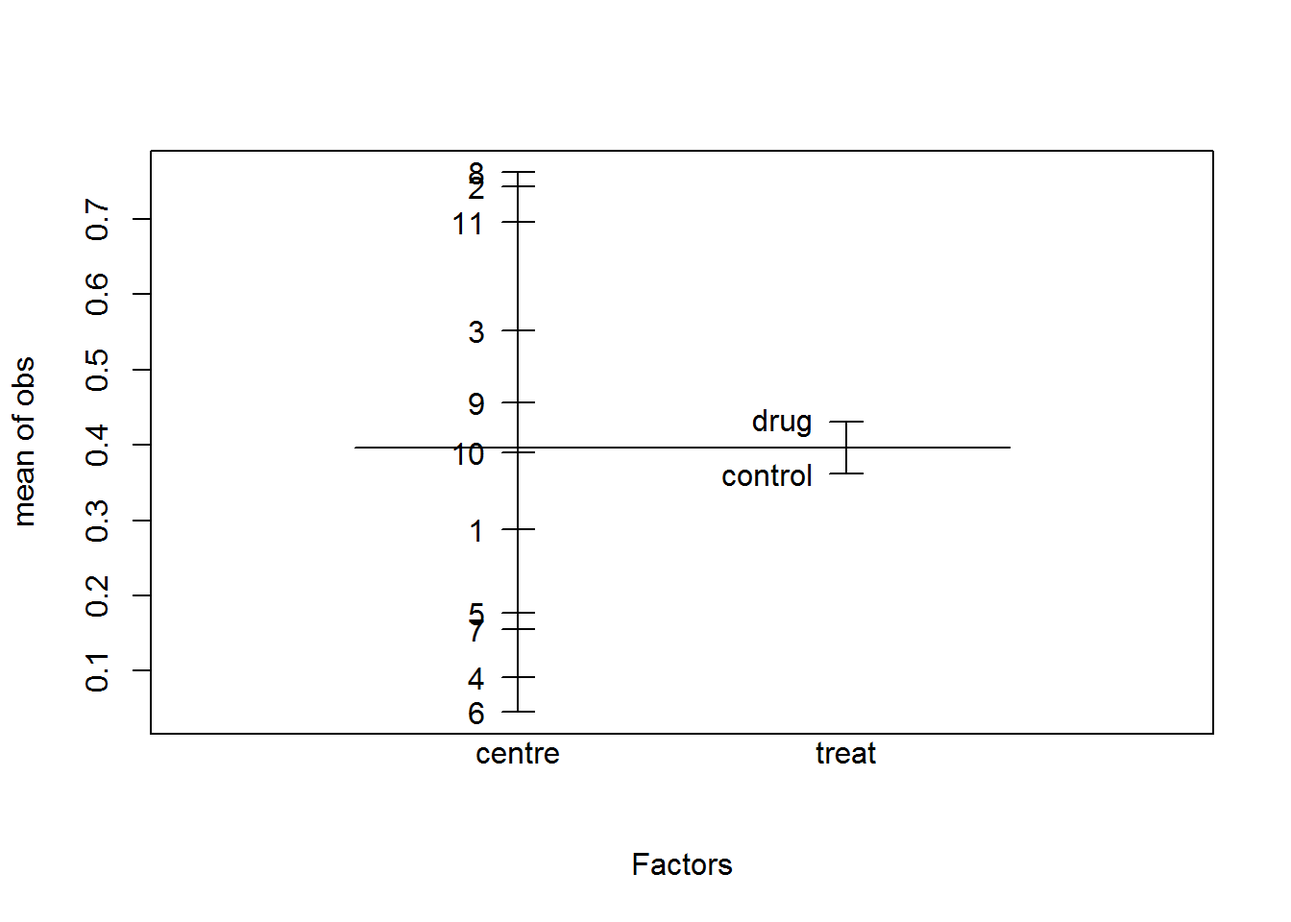
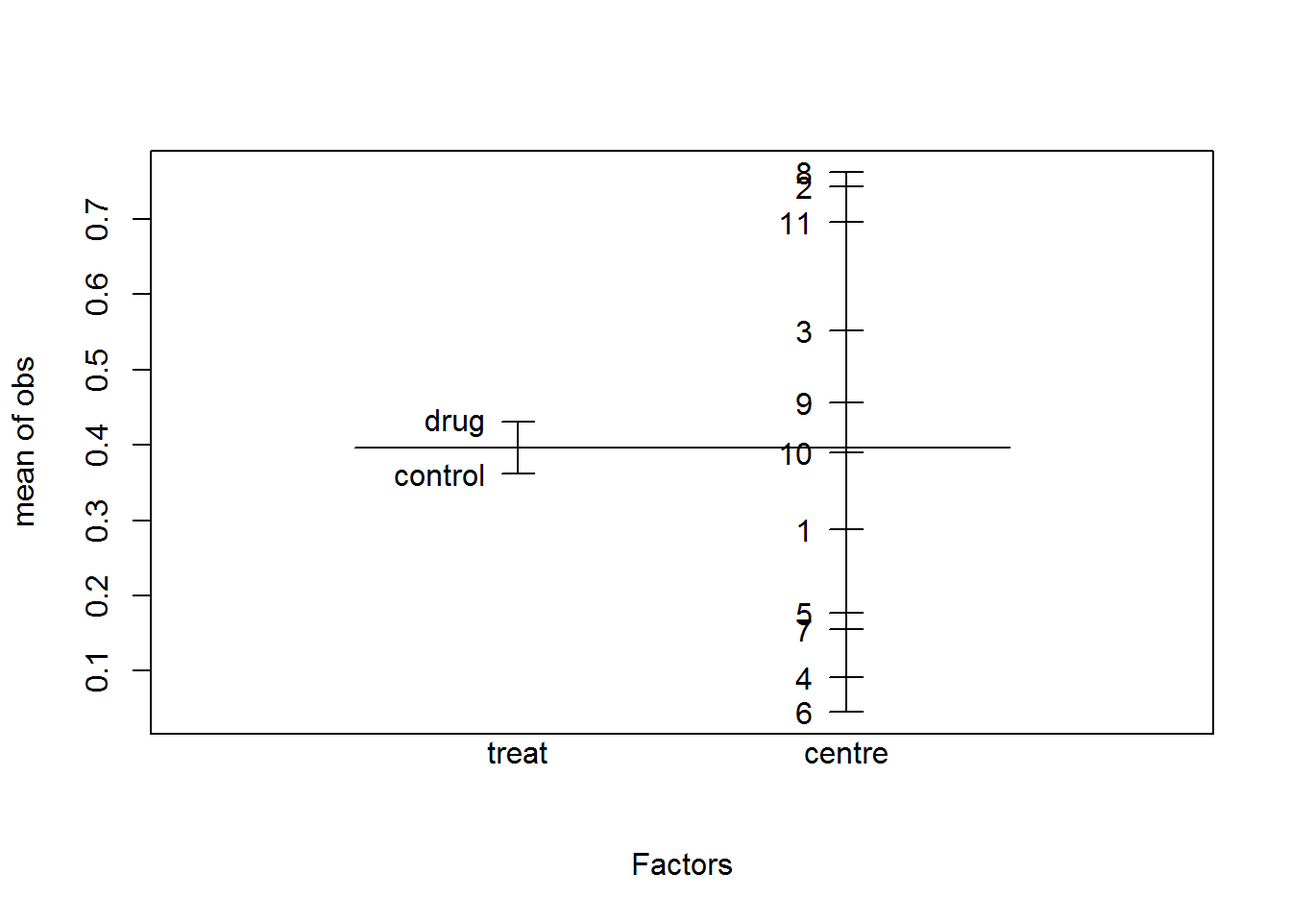
Add exercises Chapter2

diff --git a/docs/Chapter2_Exercises.html b/docs/Chapter2_Exercises.html
@@ -126,6 +126,10 @@ pre > code.sourceCode > span > a:first-child::before { text-decoration: underlin
     <a class="nav-link" href="./Chapter1_Exercises.html" rel="" target="">
  <span class="menu-text">Chapter 1 - LMM</span></a>
   </li>  
+  <li class="nav-item">
+    <a class="nav-link active" href="./Chapter2_Exercises.html" rel="" target="" aria-current="page">
+ <span class="menu-text">Chapter 2 - GLMM</span></a>
+  </li>  
 </ul>
             <div class="quarto-navbar-tools ms-auto">
 </div>
@@ -149,12 +153,11 @@ pre > code.sourceCode > span > a:first-child::before { text-decoration: underlin
   <li><a href="#write-the-mixed-logistic-regression-model-equation." id="toc-write-the-mixed-logistic-regression-model-equation." class="nav-link" data-scroll-target="#write-the-mixed-logistic-regression-model-equation.">3. Write the mixed logistic regression model equation.</a></li>
   <li><a href="#choose-the-correct-structure-for-the-random-effects" id="toc-choose-the-correct-structure-for-the-random-effects" class="nav-link" data-scroll-target="#choose-the-correct-structure-for-the-random-effects">4. Choose the correct structure for the random effects</a></li>
   <li><a href="#check-if-the-treatment-effect-is-significant." id="toc-check-if-the-treatment-effect-is-significant." class="nav-link" data-scroll-target="#check-if-the-treatment-effect-is-significant.">5. Check if the treatment effect is significant.</a></li>
-  <li><a href="#using-the-model-with-fixed-and-random-effects-interpret-the-odds-ratio-ebeta_1-and-compute-a-95-confidence-interval.-which-is-the-median-probability-of-a-positive-response-on-the-control-group" id="toc-using-the-model-with-fixed-and-random-effects-interpret-the-odds-ratio-ebeta_1-and-compute-a-95-confidence-interval.-which-is-the-median-probability-of-a-positive-response-on-the-control-group" class="nav-link" data-scroll-target="#using-the-model-with-fixed-and-random-effects-interpret-the-odds-ratio-ebeta_1-and-compute-a-95-confidence-interval.-which-is-the-median-probability-of-a-positive-response-on-the-control-group">6. Using the model with fixed and random effects, interpret the odds ratio <span class="math inline">\(e^{\beta_1}\)</span> and compute a 95% confidence interval. Which is the median probability of a positive response on the control group?</a></li>
+  <li><a href="#using-the-model-with-fixed-and-random-effects-which-is-the-probability-of-a-positive-response-on-the-active-drug-group-interpret-the-odds-ratio-ebeta_1-and-compute-a-95-confidence-interval." id="toc-using-the-model-with-fixed-and-random-effects-which-is-the-probability-of-a-positive-response-on-the-active-drug-group-interpret-the-odds-ratio-ebeta_1-and-compute-a-95-confidence-interval." class="nav-link" data-scroll-target="#using-the-model-with-fixed-and-random-effects-which-is-the-probability-of-a-positive-response-on-the-active-drug-group-interpret-the-odds-ratio-ebeta_1-and-compute-a-95-confidence-interval.">6. Using the model with fixed and random effects, which is the probability of a positive response on the active drug group? Interpret the odds ratio <span class="math inline">\(e^{\beta_1}\)</span> and compute a 95% confidence interval.</a></li>
   <li><a href="#using-the-best-model-verify-whether-the-model-assumptions-on-the-random-effects-are-satisfied." id="toc-using-the-best-model-verify-whether-the-model-assumptions-on-the-random-effects-are-satisfied." class="nav-link" data-scroll-target="#using-the-best-model-verify-whether-the-model-assumptions-on-the-random-effects-are-satisfied.">7. Using the best model, verify whether the model assumptions on the random effects are satisfied.</a></li>
   <li><a href="#which-is-the-estimated-variance-and-95-confidence-interval-of-the-within-centre-random-effect-compute-and-interpret-the-intra-class-correlation-coefficient." id="toc-which-is-the-estimated-variance-and-95-confidence-interval-of-the-within-centre-random-effect-compute-and-interpret-the-intra-class-correlation-coefficient." class="nav-link" data-scroll-target="#which-is-the-estimated-variance-and-95-confidence-interval-of-the-within-centre-random-effect-compute-and-interpret-the-intra-class-correlation-coefficient.">8. Which is the estimated variance and 95% confidence interval of the within-centre random effect? Compute and interpret the intra-class correlation coefficient.</a></li>
   <li><a href="#compute-the-predicted-probabilties-of-a-positive-response-for-each-value-of-the-dataset.-include-those-estimated-probabilities-in-the-descriptive-plot-of-section-1." id="toc-compute-the-predicted-probabilties-of-a-positive-response-for-each-value-of-the-dataset.-include-those-estimated-probabilities-in-the-descriptive-plot-of-section-1." class="nav-link" data-scroll-target="#compute-the-predicted-probabilties-of-a-positive-response-for-each-value-of-the-dataset.-include-those-estimated-probabilities-in-the-descriptive-plot-of-section-1.">9. Compute the predicted probabilties of a positive response for each value of the dataset. Include those estimated probabilities in the descriptive plot of section 1).</a></li>
   </ul></li>
-  <li><a href="#exercise-2" id="toc-exercise-2" class="nav-link" data-scroll-target="#exercise-2">Exercise 2</a></li>
   </ul>
 </nav>
     </div>
@@ -192,7 +195,7 @@ pre > code.sourceCode > span > a:first-child::before { text-decoration: underlin
 
 <section id="exercise-1" class="level1">
 <h1>Exercise 1</h1>
-<p>Data from a clinical trial, involving 2 treatments (control and active drug), conducted at 8 randomly selected centres are discussed by <a href="https://www.jstor.org/stable/2530970">Beitler and Landis (1985)</a>. For the <span class="math inline">\(i\)</span>-th center and <span class="math inline">\(j\)</span>-th treatment, the proportion of <span class="math inline">\(n_{ij}\)</span> patients having a positive response (<span class="math inline">\(y_{ij}\)</span>) is recorded below (<em>material extracted from Gallagher, 2023</em>):</p>
+<p>Data from a clinical trial, involving 2 treatments (control and active drug), conducted at 11 randomly selected centres are discussed by <a href="https://www.jstor.org/stable/2530970">Beitler and Landis (1985)</a>. For the <span class="math inline">\(i\)</span>-th center and <span class="math inline">\(j\)</span>-th treatment, the proportion of <span class="math inline">\(n_{ij}\)</span> patients having a positive response (<span class="math inline">\(y_{ij}\)</span>) is recorded below (<em>material extracted from Gallagher, 2023</em>):</p>
 <table class="table">
 <thead>
 <tr class="header">
@@ -290,10 +293,10 @@ pre > code.sourceCode > span > a:first-child::before { text-decoration: underlin
 <h3 class="anchored" data-anchor-id="which-variable-should-be-included-as-a-fixed-effect-and-which-as-a-random-effect-make-a-design-plot-to-visually-compare-the-magnitude-of-the-effects-of-the-centre-and-treat-factors.">2. Which variable should be included as a fixed effect, and which as a random effect? Make a <em>design plot</em> to visually compare the magnitude of the effects of the <code>centre</code> and <code>treat</code> factors.</h3>
 <ul>
 <li><p>We want to compare these particular treatments (<em>experimental factor</em>), so we use fixed effects for the <code>treat</code> factor.</p></li>
-<li><p>The eight centres represents a random sample from the population about which we wish to make inferences (<em>random factor</em>), so we use random effects to model the <code>center</code> factor.</p></li>
+<li><p>The eleven centres represents a random sample from the population about which we wish to make inferences (<em>random factor</em>), so we use random effects to model the <code>center</code> factor.</p></li>
 </ul>
 <div class="cell">
-<div class="sourceCode cell-code" id="cb6"><pre class="sourceCode r code-with-copy"><code class="sourceCode r"><span id="cb6-1"><a href="#cb6-1" aria-hidden="true" tabindex="-1"></a><span class="fu">plot.design</span>(obs <span class="sc">~</span> centre<span class="sc">*</span>treat, <span class="at">data=</span>multicentre)</span></code><button title="Copy to Clipboard" class="code-copy-button"><i class="bi"></i></button></pre></div>
+<div class="sourceCode cell-code" id="cb6"><pre class="sourceCode r code-with-copy"><code class="sourceCode r"><span id="cb6-1"><a href="#cb6-1" aria-hidden="true" tabindex="-1"></a><span class="fu">plot.design</span>(obs <span class="sc">~</span> treat<span class="sc">*</span>centre, <span class="at">data=</span>multicentre)</span></code><button title="Copy to Clipboard" class="code-copy-button"><i class="bi"></i></button></pre></div>
 <div class="cell-output-display">
 <div class="quarto-figure quarto-figure-center">
 <figure class="figure">
@@ -305,137 +308,44 @@ pre > code.sourceCode > span > a:first-child::before { text-decoration: underlin
 </div>
 <ul>
 <li><p>We see that the variability associated with the treatment is much lower than the variability associated with the centres.</p></li>
-<li><p>We also see that the average probability of a positive response is lower in the <em>active drug</em> treatment.</p></li>
+<li><p>We also see that the average probability of a positive response is higher in the <em>active drug</em> treatment.</p></li>
 </ul>
 </section>
 <section id="write-the-mixed-logistic-regression-model-equation." class="level3">
 <h3 class="anchored" data-anchor-id="write-the-mixed-logistic-regression-model-equation.">3. Write the mixed logistic regression model equation.</h3>
-<p><span class="math display">\[y_{ij} | u_i  \sim Bin(n_{ij},\pi_{ij}), \quad i=1,\ldots,10 \quad \mbox{and} \quad j=1,2\]</span> <span class="math display">\[\mbox{logit}(\pi_{ij}) = \beta_0 + \beta_1*x_{j} + u_i, \quad u_i \sim N(0,\sigma_u^2)\]</span> where</p>
+<p><span class="math display">\[y_{ij} | u_i  \sim Bin(n_{ij},\pi_{ij}), \quad i=1,\ldots,10 \quad \mbox{and} \quad j=1,2\]</span> <span class="math display">\[\mbox{logit}(\pi_{ij}) = \beta_0 + \beta_1*x_{ij} + u_i, \quad u_i \sim N(0,\sigma_u^2)\]</span> where</p>
 <ul>
 <li><span class="math inline">\(\pi_{ij}\)</span> is the probability of a favourable outcome in a patient on the <span class="math inline">\(i\)</span>-th centre and <span class="math inline">\(j\)</span>-th treatment</li>
-<li><span class="math inline">\(x_j\)</span> is an indicator variable for treatment (0=control, 1=active drug)</li>
+<li><span class="math inline">\(x_{ij}\)</span> is an indicator variable for treatment (0=control, 1=active drug)</li>
 <li><span class="math inline">\(u_i\)</span> is a random variable associated with the <span class="math inline">\(i\)</span>-th centre</li>
 </ul>
 </section>
 <section id="choose-the-correct-structure-for-the-random-effects" class="level3">
 <h3 class="anchored" data-anchor-id="choose-the-correct-structure-for-the-random-effects">4. Choose the correct structure for the random effects</h3>
-<div class="cell">
-<div class="sourceCode cell-code" id="cb7"><pre class="sourceCode r code-with-copy"><code class="sourceCode r"><span id="cb7-1"><a href="#cb7-1" aria-hidden="true" tabindex="-1"></a><span class="do">## Fit the models ##</span></span>
-<span id="cb7-2"><a href="#cb7-2" aria-hidden="true" tabindex="-1"></a><span class="fu">library</span>(lme4)</span>
-<span id="cb7-3"><a href="#cb7-3" aria-hidden="true" tabindex="-1"></a></span>
-<span id="cb7-4"><a href="#cb7-4" aria-hidden="true" tabindex="-1"></a>M0 <span class="ot">&lt;-</span> <span class="fu">glm</span>(obs <span class="sc">~</span> <span class="dv">1</span> <span class="sc">+</span> treat, <span class="at">family=</span><span class="st">"binomial"</span>, <span class="at">weights=</span>n, <span class="at">data=</span>multicentre)</span>
-<span id="cb7-5"><a href="#cb7-5" aria-hidden="true" tabindex="-1"></a>M1 <span class="ot">&lt;-</span> <span class="fu">glmer</span>(obs <span class="sc">~</span> <span class="dv">1</span> <span class="sc">+</span> treat <span class="sc">+</span> (<span class="dv">1</span><span class="sc">|</span>centre), <span class="at">family=</span><span class="st">"binomial"</span>, <span class="at">weights=</span>n, <span class="at">data=</span>multicentre)</span>
-<span id="cb7-6"><a href="#cb7-6" aria-hidden="true" tabindex="-1"></a></span>
-<span id="cb7-7"><a href="#cb7-7" aria-hidden="true" tabindex="-1"></a><span class="do">## LRT for the variance component sigma2_u ##</span></span>
-<span id="cb7-8"><a href="#cb7-8" aria-hidden="true" tabindex="-1"></a>LRT <span class="ot">&lt;-</span> <span class="sc">-</span><span class="dv">2</span><span class="sc">*</span>(<span class="fu">logLik</span>(M0)<span class="sc">-</span><span class="fu">logLik</span>(M1))</span>
-<span id="cb7-9"><a href="#cb7-9" aria-hidden="true" tabindex="-1"></a><span class="fu">mean</span>(<span class="fu">pchisq</span>(LRT,<span class="at">df=</span><span class="fu">c</span>(<span class="dv">0</span>,<span class="dv">1</span>),<span class="at">lower.tail=</span>F))</span></code><button title="Copy to Clipboard" class="code-copy-button"><i class="bi"></i></button></pre></div>
-<div class="cell-output cell-output-stdout">
-<pre><code>[1] 3.910022e-15</code></pre>
-</div>
-<div class="sourceCode cell-code" id="cb9"><pre class="sourceCode r code-with-copy"><code class="sourceCode r"><span id="cb9-1"><a href="#cb9-1" aria-hidden="true" tabindex="-1"></a><span class="do">## We can also use the AIC/BIC to compare the models ##</span></span>
-<span id="cb9-2"><a href="#cb9-2" aria-hidden="true" tabindex="-1"></a>Models <span class="ot">&lt;-</span> <span class="fu">list</span>(<span class="at">multicentre.glm=</span>M0, <span class="at">multicentre.glmer=</span>M1)</span>
-<span id="cb9-3"><a href="#cb9-3" aria-hidden="true" tabindex="-1"></a><span class="fu">cbind</span>(<span class="at">AIC=</span><span class="fu">lapply</span>(Models, AIC), <span class="at">BIC=</span><span class="fu">lapply</span>(Models, BIC))</span></code><button title="Copy to Clipboard" class="code-copy-button"><i class="bi"></i></button></pre></div>
-<div class="cell-output cell-output-stdout">
-<pre><code>                  AIC      BIC     
-multicentre.glm   196.8286 199.0107
-multicentre.glmer 138.4485 141.7216</code></pre>
-</div>
-</div>
 </section>
 <section id="check-if-the-treatment-effect-is-significant." class="level3">
 <h3 class="anchored" data-anchor-id="check-if-the-treatment-effect-is-significant.">5. Check if the treatment effect is significant.</h3>
 <p>We compare nested models (with and without <code>treat</code> factor) using the LRT with the <code>anova()</code> function</p>
-<div class="cell">
-<div class="sourceCode cell-code" id="cb11"><pre class="sourceCode r code-with-copy"><code class="sourceCode r"><span id="cb11-1"><a href="#cb11-1" aria-hidden="true" tabindex="-1"></a>M1a <span class="ot">&lt;-</span> <span class="fu">glmer</span>(obs <span class="sc">~</span> <span class="dv">1</span> <span class="sc">+</span> (<span class="dv">1</span><span class="sc">|</span>centre), <span class="at">family=</span><span class="st">"binomial"</span>, <span class="at">weights=</span>n, <span class="at">data=</span>multicentre)</span>
-<span id="cb11-2"><a href="#cb11-2" aria-hidden="true" tabindex="-1"></a>M1b <span class="ot">&lt;-</span> <span class="fu">glmer</span>(obs <span class="sc">~</span> <span class="dv">1</span> <span class="sc">+</span> treat <span class="sc">+</span> (<span class="dv">1</span><span class="sc">|</span>centre), <span class="at">family=</span><span class="st">"binomial"</span>, <span class="at">weights=</span>n, <span class="at">data=</span>multicentre)</span>
-<span id="cb11-3"><a href="#cb11-3" aria-hidden="true" tabindex="-1"></a><span class="fu">anova</span>(M1a,M1b)</span></code><button title="Copy to Clipboard" class="code-copy-button"><i class="bi"></i></button></pre></div>
-<div class="cell-output cell-output-stdout">
-<pre><code>Data: multicentre
-Models:
-M1a: obs ~ 1 + (1 | centre)
-M1b: obs ~ 1 + treat + (1 | centre)
-    npar    AIC    BIC  logLik deviance  Chisq Df Pr(&gt;Chisq)
-M1a    2 136.63 138.82 -66.317   132.63                     
-M1b    3 138.45 141.72 -66.224   132.45 0.1862  1     0.6661</code></pre>
-</div>
-</div>
-<p><strong>We conclude that the treatment effect is not statistically significant.</strong></p>
+<!-- **We conclude that the treatment effect is not statistically significant.** -->
 </section>
-<section id="using-the-model-with-fixed-and-random-effects-interpret-the-odds-ratio-ebeta_1-and-compute-a-95-confidence-interval.-which-is-the-median-probability-of-a-positive-response-on-the-control-group" class="level3">
-<h3 class="anchored" data-anchor-id="using-the-model-with-fixed-and-random-effects-interpret-the-odds-ratio-ebeta_1-and-compute-a-95-confidence-interval.-which-is-the-median-probability-of-a-positive-response-on-the-control-group">6. Using the model with fixed and random effects, interpret the odds ratio <span class="math inline">\(e^{\beta_1}\)</span> and compute a 95% confidence interval. Which is the median probability of a positive response on the control group?</h3>
-<div class="cell">
-<div class="sourceCode cell-code" id="cb13"><pre class="sourceCode r code-with-copy"><code class="sourceCode r"><span id="cb13-1"><a href="#cb13-1" aria-hidden="true" tabindex="-1"></a><span class="fu">library</span>(emmeans)</span>
-<span id="cb13-2"><a href="#cb13-2" aria-hidden="true" tabindex="-1"></a><span class="fu">emmeans</span>(M1b, revpairwise<span class="sc">~</span>treat, <span class="at">type=</span><span class="st">"response"</span>, <span class="at">inf=</span><span class="cn">TRUE</span>)</span></code><button title="Copy to Clipboard" class="code-copy-button"><i class="bi"></i></button></pre></div>
-<div class="cell-output cell-output-stdout">
-<pre><code>$emmeans
- treat    prob     SE  df asymp.LCL asymp.UCL null z.ratio p.value
- control 0.359 0.0892 Inf     0.208     0.545  0.5  -1.497  0.1345
- drug    0.376 0.0911 Inf     0.220     0.564  0.5  -1.301  0.1932
-
-Confidence level used: 0.95 
-Intervals are back-transformed from the logit scale 
-Tests are performed on the logit scale 
-
-$contrasts
- contrast       odds.ratio    SE  df asymp.LCL asymp.UCL null z.ratio p.value
- drug / control       1.08 0.186 Inf     0.768      1.51    1   0.433  0.6651
-
-Confidence level used: 0.95 
-Intervals are back-transformed from the log odds ratio scale 
-Tests are performed on the log odds ratio scale </code></pre>
-</div>
-</div>
-<ul>
-<li><p>The estimated odds of a patient showing a positive response on the active drug group relative to the control group is 1.08 with a 95% confidence interval of <span class="math inline">\([0.77, 1.51]\)</span>.</p></li>
-<li><p>The median (for <span class="math inline">\(u_i=0\)</span>) probability of a positive response over a population of centres under the control group is <span class="math inline">\(\hat{\pi}_i=0.376\)</span> with a 95% confidence interval of <span class="math inline">\([0.220, 0.564]\)</span>.</p></li>
-</ul>
+<section id="using-the-model-with-fixed-and-random-effects-which-is-the-probability-of-a-positive-response-on-the-active-drug-group-interpret-the-odds-ratio-ebeta_1-and-compute-a-95-confidence-interval." class="level3">
+<h3 class="anchored" data-anchor-id="using-the-model-with-fixed-and-random-effects-which-is-the-probability-of-a-positive-response-on-the-active-drug-group-interpret-the-odds-ratio-ebeta_1-and-compute-a-95-confidence-interval.">6. Using the model with fixed and random effects, which is the probability of a positive response on the active drug group? Interpret the odds ratio <span class="math inline">\(e^{\beta_1}\)</span> and compute a 95% confidence interval.</h3>
+<!-- -  For $u_i=0$, the probability of a positive response over a population of centres under the active drug group ($x_{ij}=1$) is $\hat{\pi}_{ij}=0.376$ with a 95% confidence interval of $[0.220, 0.564]$. -->
+<!-- -   The estimated odds of a patient showing a positive response on the active drug group relative to the control group is 1.08 with a 95% confidence interval of $[0.77, 1.51]$. -->
 </section>
 <section id="using-the-best-model-verify-whether-the-model-assumptions-on-the-random-effects-are-satisfied." class="level3">
 <h3 class="anchored" data-anchor-id="using-the-best-model-verify-whether-the-model-assumptions-on-the-random-effects-are-satisfied.">7. Using the best model, verify whether the model assumptions on the random effects are satisfied.</h3>
-<div class="cell">
-<div class="sourceCode cell-code" id="cb15"><pre class="sourceCode r code-with-copy"><code class="sourceCode r"><span id="cb15-1"><a href="#cb15-1" aria-hidden="true" tabindex="-1"></a>Model <span class="ot">&lt;-</span> M1a</span>
-<span id="cb15-2"><a href="#cb15-2" aria-hidden="true" tabindex="-1"></a></span>
-<span id="cb15-3"><a href="#cb15-3" aria-hidden="true" tabindex="-1"></a>rand <span class="ot">&lt;-</span> <span class="fu">unlist</span>(<span class="fu">ranef</span>(Model)<span class="sc">$</span>centre)</span>
-<span id="cb15-4"><a href="#cb15-4" aria-hidden="true" tabindex="-1"></a><span class="fu">qqnorm</span>(rand)</span>
-<span id="cb15-5"><a href="#cb15-5" aria-hidden="true" tabindex="-1"></a><span class="fu">qqline</span>(rand)</span></code><button title="Copy to Clipboard" class="code-copy-button"><i class="bi"></i></button></pre></div>
-<div class="cell-output-display">
-<p><img src="Chapter2_Exercises_files/figure-html/unnamed-chunk-7-1.png" class="img-fluid" width="672"></p>
-</div>
-<div class="sourceCode cell-code" id="cb16"><pre class="sourceCode r code-with-copy"><code class="sourceCode r"><span id="cb16-1"><a href="#cb16-1" aria-hidden="true" tabindex="-1"></a><span class="fu">shapiro.test</span>(rand)</span></code><button title="Copy to Clipboard" class="code-copy-button"><i class="bi"></i></button></pre></div>
-<div class="cell-output cell-output-stdout">
-<pre><code>
-    Shapiro-Wilk normality test
-
-data:  rand
-W = 0.93053, p-value = 0.4162</code></pre>
-</div>
-</div>
-<p>We don’t reject the null hypothesis of normality of the random effects.</p>
+<!-- We don't reject the null hypothesis of normality of the random effects. -->
 </section>
 <section id="which-is-the-estimated-variance-and-95-confidence-interval-of-the-within-centre-random-effect-compute-and-interpret-the-intra-class-correlation-coefficient." class="level3">
 <h3 class="anchored" data-anchor-id="which-is-the-estimated-variance-and-95-confidence-interval-of-the-within-centre-random-effect-compute-and-interpret-the-intra-class-correlation-coefficient.">8. Which is the estimated variance and 95% confidence interval of the within-centre random effect? Compute and interpret the intra-class correlation coefficient.</h3>
-<div class="cell">
-<div class="sourceCode cell-code" id="cb18"><pre class="sourceCode r code-with-copy"><code class="sourceCode r"><span id="cb18-1"><a href="#cb18-1" aria-hidden="true" tabindex="-1"></a><span class="fu">VarCorr</span>(Model)</span></code><button title="Copy to Clipboard" class="code-copy-button"><i class="bi"></i></button></pre></div>
-<div class="cell-output cell-output-stdout">
-<pre><code> Groups Name        Std.Dev.
- centre (Intercept) 1.1692  </code></pre>
-</div>
-<div class="sourceCode cell-code" id="cb20"><pre class="sourceCode r code-with-copy"><code class="sourceCode r"><span id="cb20-1"><a href="#cb20-1" aria-hidden="true" tabindex="-1"></a><span class="fu">confint</span>(Model, <span class="at">parm=</span><span class="st">"theta_"</span>)</span></code><button title="Copy to Clipboard" class="code-copy-button"><i class="bi"></i></button></pre></div>
-<div class="cell-output cell-output-stderr">
-<pre><code>Computing profile confidence intervals ...</code></pre>
-</div>
-<div class="cell-output cell-output-stdout">
-<pre><code>          2.5 %   97.5 %
-.sig01 0.709846 2.060211</code></pre>
-</div>
-</div>
-<p>We can compute the intra-class correlation coefficient as <span class="math display">\[\rho=\frac{\sigma^2_u}{\sigma^2_u+3.29}=1.169^2/(1.169^2+3.29) = 0.29347,\]</span> which means that 29% of the overall variability can be attributed to the differences between centres.</p>
+<!-- We can compute the intra-class correlation coefficient as $$\rho=\frac{\sigma^2_u}{\sigma^2_u+3.29}=1.169^2/(1.169^2+3.29) = 0.29347,$$ which means that 29% of the overall variability can be attributed to the differences between centres. -->
 </section>
 <section id="compute-the-predicted-probabilties-of-a-positive-response-for-each-value-of-the-dataset.-include-those-estimated-probabilities-in-the-descriptive-plot-of-section-1." class="level3">
 <h3 class="anchored" data-anchor-id="compute-the-predicted-probabilties-of-a-positive-response-for-each-value-of-the-dataset.-include-those-estimated-probabilities-in-the-descriptive-plot-of-section-1.">9. Compute the predicted probabilties of a positive response for each value of the dataset. Include those estimated probabilities in the descriptive plot of section 1).</h3>
 <div class="cell">
-<div class="sourceCode cell-code" id="cb23"><pre class="sourceCode r code-with-copy"><code class="sourceCode r"><span id="cb23-1"><a href="#cb23-1" aria-hidden="true" tabindex="-1"></a>multicentre<span class="sc">$</span>pred <span class="ot">&lt;-</span> <span class="fu">predict</span>(Model, <span class="at">newdata=</span>multicentre, <span class="at">type=</span><span class="st">"response"</span>)</span>
-<span id="cb23-2"><a href="#cb23-2" aria-hidden="true" tabindex="-1"></a><span class="fu">head</span>(multicentre)</span></code><button title="Copy to Clipboard" class="code-copy-button"><i class="bi"></i></button></pre></div>
+<div class="sourceCode cell-code" id="cb7"><pre class="sourceCode r code-with-copy"><code class="sourceCode r"><span id="cb7-1"><a href="#cb7-1" aria-hidden="true" tabindex="-1"></a>multicentre<span class="sc">$</span>pred <span class="ot">&lt;-</span> <span class="fu">predict</span>(Model, <span class="at">newdata=</span>multicentre, <span class="at">type=</span><span class="st">"response"</span>)</span>
+<span id="cb7-2"><a href="#cb7-2" aria-hidden="true" tabindex="-1"></a><span class="fu">head</span>(multicentre)</span></code><button title="Copy to Clipboard" class="code-copy-button"><i class="bi"></i></button></pre></div>
 <div class="cell-output cell-output-stdout">
 <pre><code>  centre   treat  y  n       obs      pred
 1      1    drug 11 36 0.3055556 0.3337400
@@ -445,10 +355,10 @@ W = 0.93053, p-value = 0.4162</code></pre>
 5      3    drug 14 19 0.7368421 0.4391549
 6      3 control  7 19 0.3684211 0.4391549</code></pre>
 </div>
-<div class="sourceCode cell-code" id="cb25"><pre class="sourceCode r code-with-copy"><code class="sourceCode r"><span id="cb25-1"><a href="#cb25-1" aria-hidden="true" tabindex="-1"></a><span class="fu">ggplot</span>(multicentre, <span class="fu">aes</span>(<span class="at">x=</span>obs, <span class="at">y=</span>centre, <span class="at">color=</span>treat)) <span class="sc">+</span></span>
-<span id="cb25-2"><a href="#cb25-2" aria-hidden="true" tabindex="-1"></a>  <span class="fu">geom_point</span>() <span class="sc">+</span></span>
-<span id="cb25-3"><a href="#cb25-3" aria-hidden="true" tabindex="-1"></a>  <span class="fu">geom_point</span>(<span class="fu">aes</span>(<span class="at">x=</span>pred, <span class="at">y=</span>centre), <span class="at">shape=</span><span class="dv">8</span>, <span class="at">color=</span><span class="st">"black"</span>) <span class="sc">+</span> </span>
-<span id="cb25-4"><a href="#cb25-4" aria-hidden="true" tabindex="-1"></a>  <span class="fu">labs</span>(<span class="at">x=</span><span class="st">"Prob"</span>, <span class="at">y=</span><span class="st">"Centre"</span>)</span></code><button title="Copy to Clipboard" class="code-copy-button"><i class="bi"></i></button></pre></div>
+<div class="sourceCode cell-code" id="cb9"><pre class="sourceCode r code-with-copy"><code class="sourceCode r"><span id="cb9-1"><a href="#cb9-1" aria-hidden="true" tabindex="-1"></a><span class="fu">ggplot</span>(multicentre, <span class="fu">aes</span>(<span class="at">x=</span>obs, <span class="at">y=</span>centre, <span class="at">color=</span>treat)) <span class="sc">+</span></span>
+<span id="cb9-2"><a href="#cb9-2" aria-hidden="true" tabindex="-1"></a>  <span class="fu">geom_point</span>() <span class="sc">+</span></span>
+<span id="cb9-3"><a href="#cb9-3" aria-hidden="true" tabindex="-1"></a>  <span class="fu">geom_point</span>(<span class="fu">aes</span>(<span class="at">x=</span>pred, <span class="at">y=</span>centre), <span class="at">shape=</span><span class="dv">8</span>, <span class="at">color=</span><span class="st">"black"</span>) <span class="sc">+</span> </span>
+<span id="cb9-4"><a href="#cb9-4" aria-hidden="true" tabindex="-1"></a>  <span class="fu">labs</span>(<span class="at">x=</span><span class="st">"Prob"</span>, <span class="at">y=</span><span class="st">"Centre"</span>)</span></code><button title="Copy to Clipboard" class="code-copy-button"><i class="bi"></i></button></pre></div>
 <div class="cell-output-display">
 <div class="quarto-figure quarto-figure-center">
 <figure class="figure">
@@ -458,17 +368,13 @@ W = 0.93053, p-value = 0.4162</code></pre>
 </div>
 </div>
 </div>
-</section>
-</section>
-<section id="exercise-2" class="level1">
-<h1>Exercise 2</h1>
-<p>See <a href="https://stats.oarc.ucla.edu/r/dae/mixed-effects-logistic-regression/">https://stats.oarc.ucla.edu/r/dae/mixed-effects-logistic-regression/</a></p>
-<ul>
-<li>Several continuous and discrete covariates</li>
-<li>Possibility to include 2 random effects</li>
-</ul>
+<!-- # Exercise 2 -->
+<!-- See <https://stats.oarc.ucla.edu/r/dae/mixed-effects-logistic-regression/> -->
+<!-- -   Several continuous and discrete covariates -->
+<!-- -   Possibility to include 2 random effects -->
 
 
+</section>
 </section>
 
 </main> <!-- /main -->

diff --git a/docs/index.html b/docs/index.html
@@ -89,6 +89,10 @@ ul.task-list li input[type="checkbox"] {
     <a class="nav-link" href="./Chapter1_Exercises.html" rel="" target="">
  <span class="menu-text">Chapter 1 - LMM</span></a>
   </li>  
+  <li class="nav-item">
+    <a class="nav-link" href="./Chapter2_Exercises.html" rel="" target="">
+ <span class="menu-text">Chapter 2 - GLMM</span></a>
+  </li>  
 </ul>
             <div class="quarto-navbar-tools ms-auto">
 </div>
@@ -134,7 +138,7 @@ ul.task-list li input[type="checkbox"] {
 <h2 class="anchored" data-anchor-id="exercises">Exercises</h2>
 <ol type="1">
 <li><a href="./Chapter1_Exercises.html">Linear Mixed Models</a></li>
-<li>Generalized Linear Mixed Models <!-- 2. [Generalized Linear Mixed Models](./Chapter2_Exercises.html) --></li>
+<li><a href="./Chapter2_Exercises.html">Generalized Linear Mixed Models</a></li>
 </ol>
 </section>
 <section id="references" class="level2">

diff --git a/docs/Chapter1_Exercises.html b/docs/Chapter1_Exercises.html
@@ -126,6 +126,10 @@ pre > code.sourceCode > span > a:first-child::before { text-decoration: underlin
     <a class="nav-link active" href="./Chapter1_Exercises.html" rel="" target="" aria-current="page">
  <span class="menu-text">Chapter 1 - LMM</span></a>
   </li>  
+  <li class="nav-item">
+    <a class="nav-link" href="./Chapter2_Exercises.html" rel="" target="">
+ <span class="menu-text">Chapter 2 - GLMM</span></a>
+  </li>  
 </ul>
             <div class="quarto-navbar-tools ms-auto">
 </div>

diff --git a/README.md b/README.md
@@ -3,8 +3,7 @@
 ## Exercises
 
 1.  [Linear Mixed Models](./Chapter1_Exercises.html)
-2.  Generalized Linear Mixed Models
-    <!-- 2. [Generalized Linear Mixed Models](./Chapter2_Exercises.html) -->
+2.  [Generalized Linear Mixed Models](./Chapter2_Exercises.html)
 
 ## References
 
